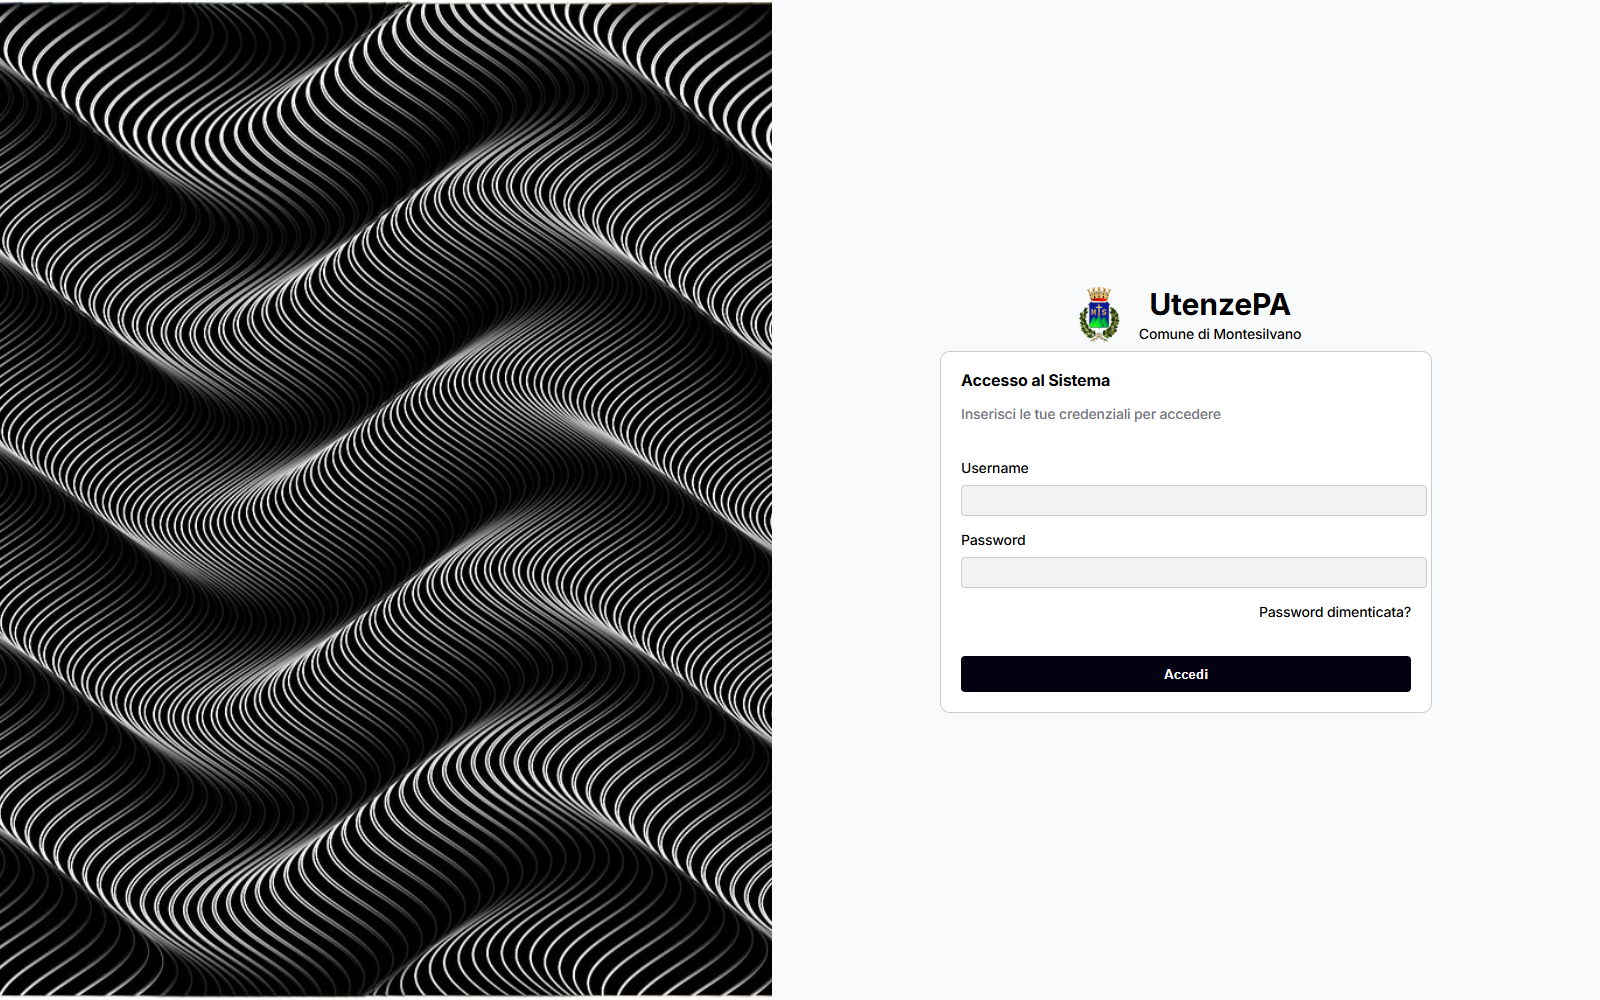
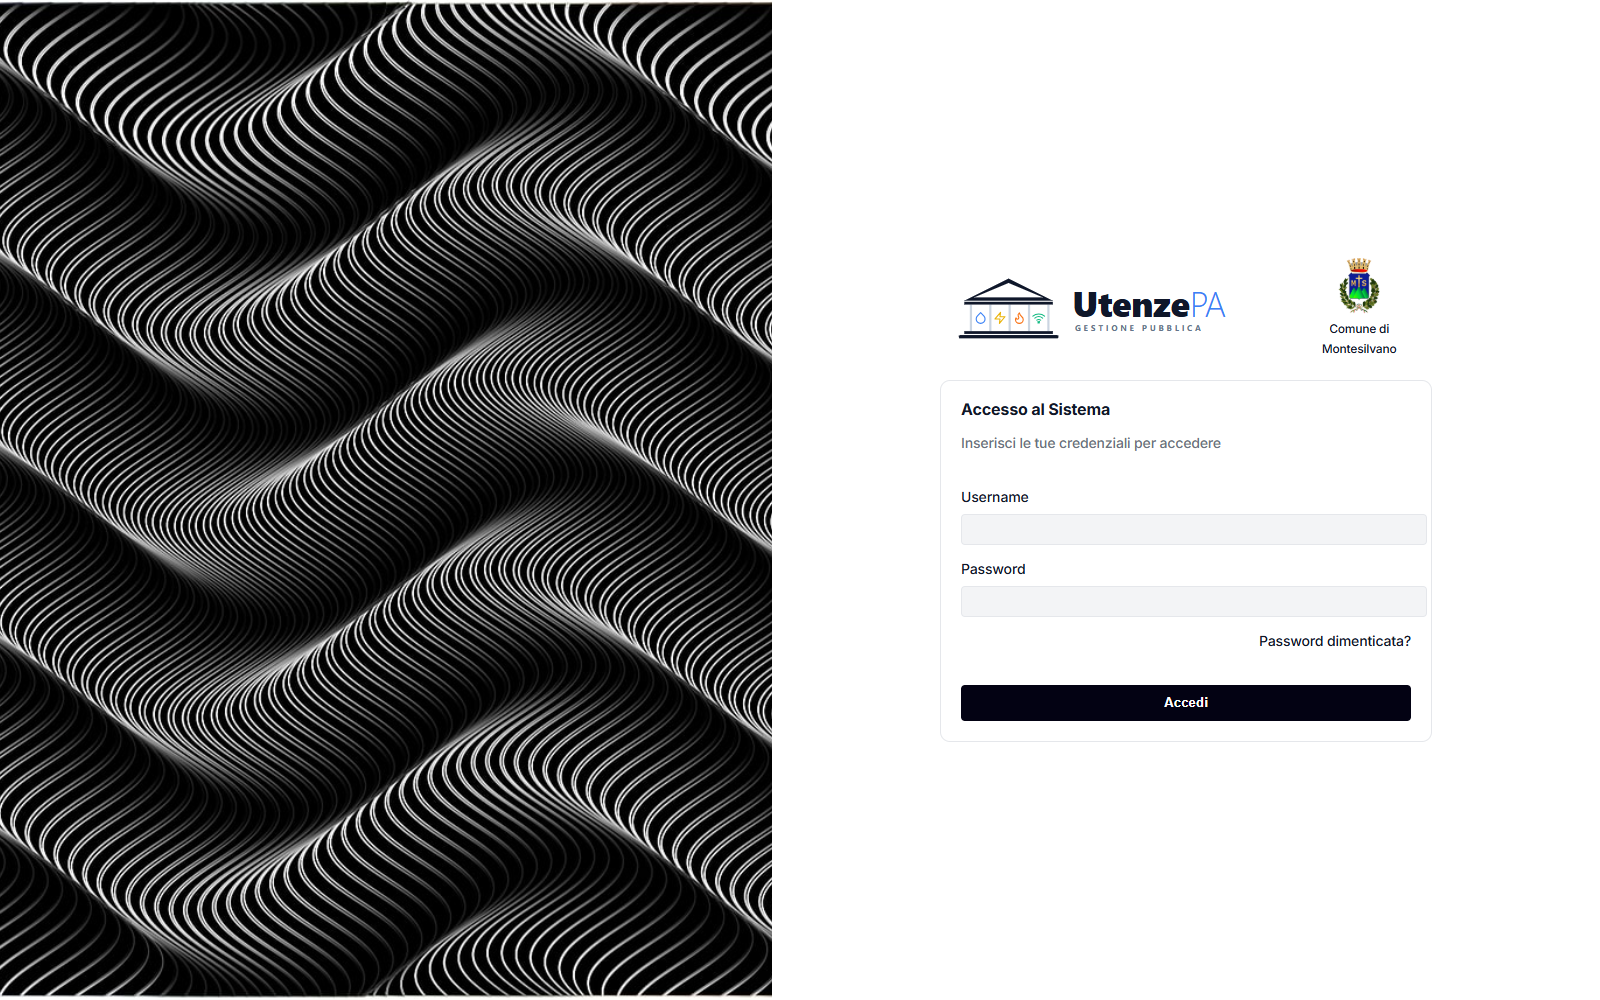
docs: screenshot aggiornati in chiaro e scuro
Codici POD/PDR e matricole mascherati prima dello scatto.

Changed region(s): [[0.5938, 0.589, 0.9062, 0.744], [0.5938, 0.372, 0.75, 0.589], [0.5938, 0.248, 0.875, 0.372]]

diff --git a/README.md b/README.md
@@ -9,17 +9,19 @@ Gestionale del patrimonio immobiliare e delle utenze per enti pubblici locali (a
 
 ## Screenshot
 
+Tema chiaro o scuro secondo il sistema, oppure scelto dalla voce **Tema** della barra laterale. Le immagini seguono il tema di GitHub.
+
 | Login | Dashboard |
 |---|---|
-| ![Login](docs/screenshots/01-login.png) | ![Dashboard](docs/screenshots/02-dashboard.png) |
+| <picture><source media="(prefers-color-scheme: dark)" srcset="docs/screenshots/01-login-dark.png"><img src="docs/screenshots/01-login.png" alt="Login"></picture> | <picture><source media="(prefers-color-scheme: dark)" srcset="docs/screenshots/02-dashboard-dark.png"><img src="docs/screenshots/02-dashboard.png" alt="Dashboard"></picture> |
 
-| Mappa geolocalizzazione | Gestione Immobili |
+| Mappa | Immobili |
 |---|---|
-| ![Mappa](docs/screenshots/03-mappa.png) | ![Immobili](docs/screenshots/04-immobili.png) |
+| <picture><source media="(prefers-color-scheme: dark)" srcset="docs/screenshots/03-mappa-dark.png"><img src="docs/screenshots/03-mappa.png" alt="Mappa"></picture> | <picture><source media="(prefers-color-scheme: dark)" srcset="docs/screenshots/04-immobili-dark.png"><img src="docs/screenshots/04-immobili.png" alt="Immobili"></picture> |
 
-| Gestione Utenze |
+| Utenze |
 |---|
-| ![Utenze](docs/screenshots/05-utenze.png) |
+| <picture><source media="(prefers-color-scheme: dark)" srcset="docs/screenshots/05-utenze-dark.png"><img src="docs/screenshots/05-utenze.png" alt="Utenze"></picture> |
 
 ## Architettura
 
